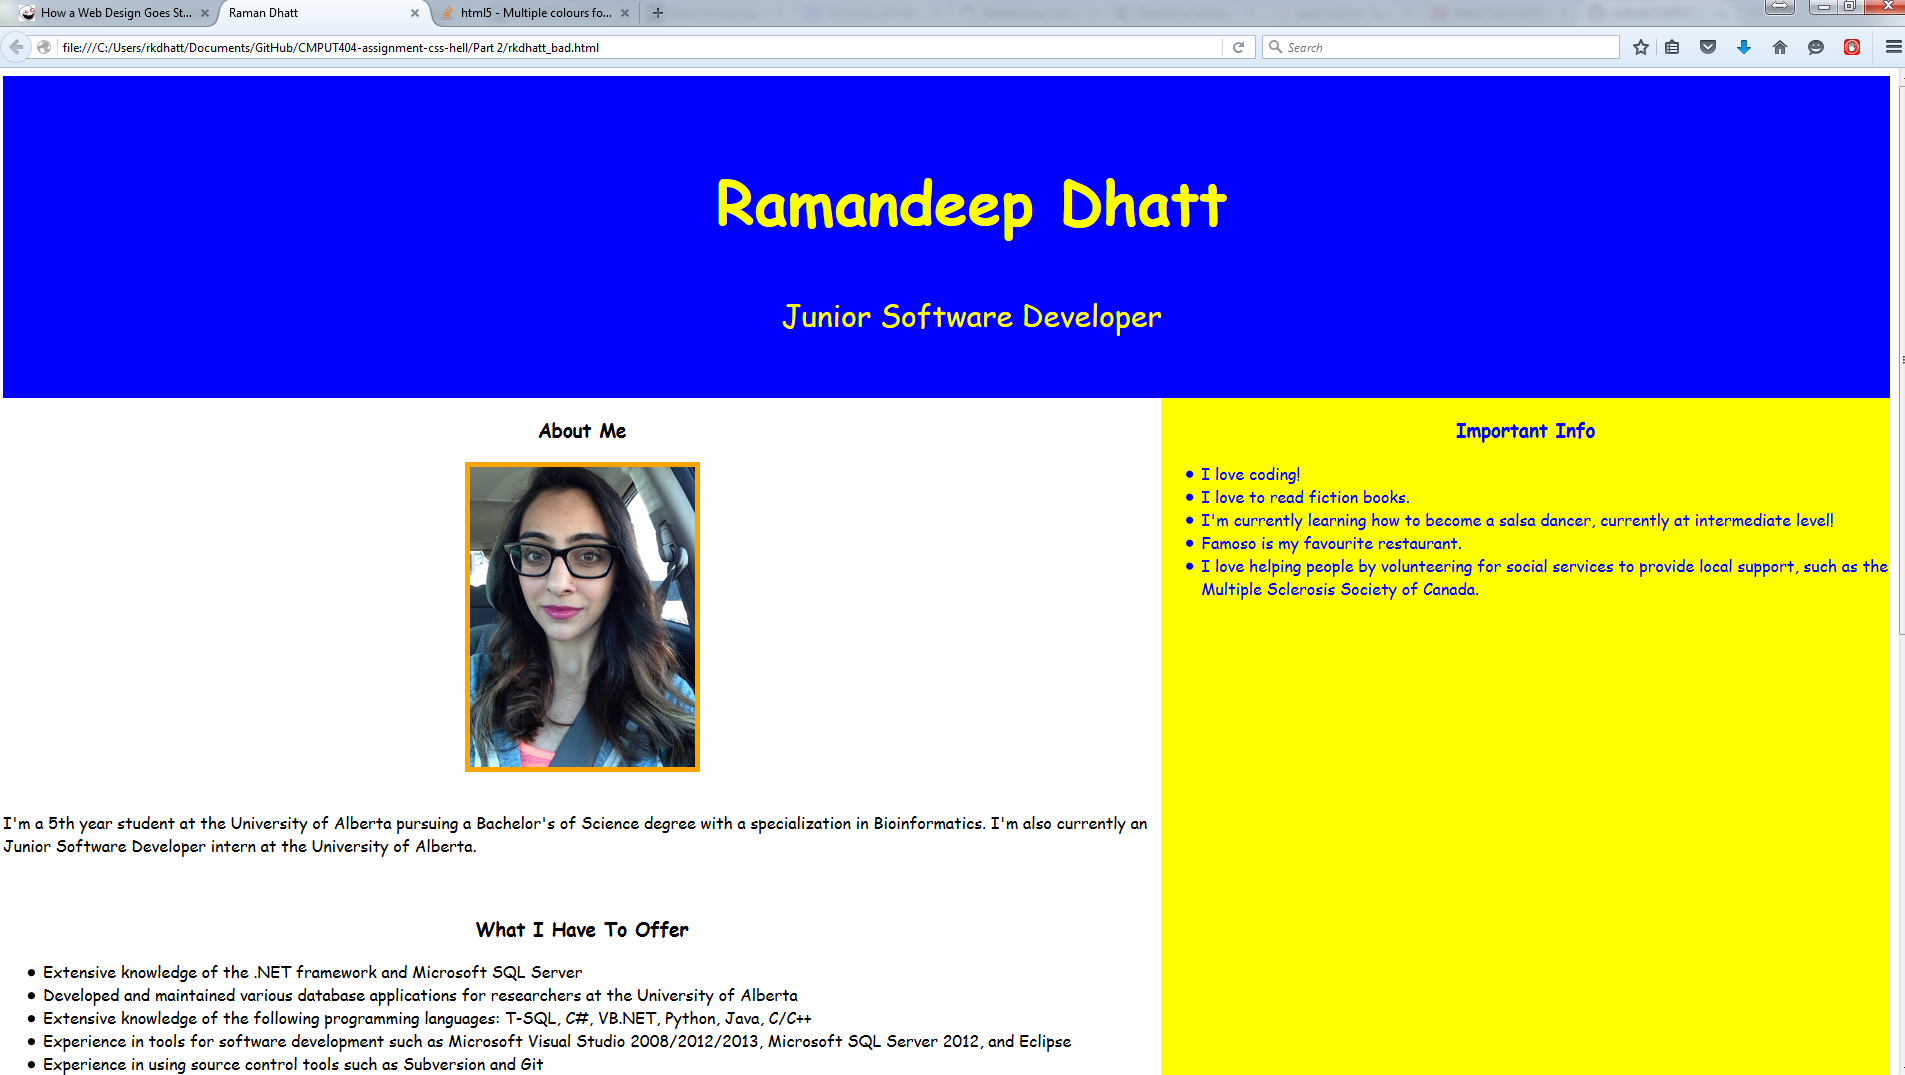
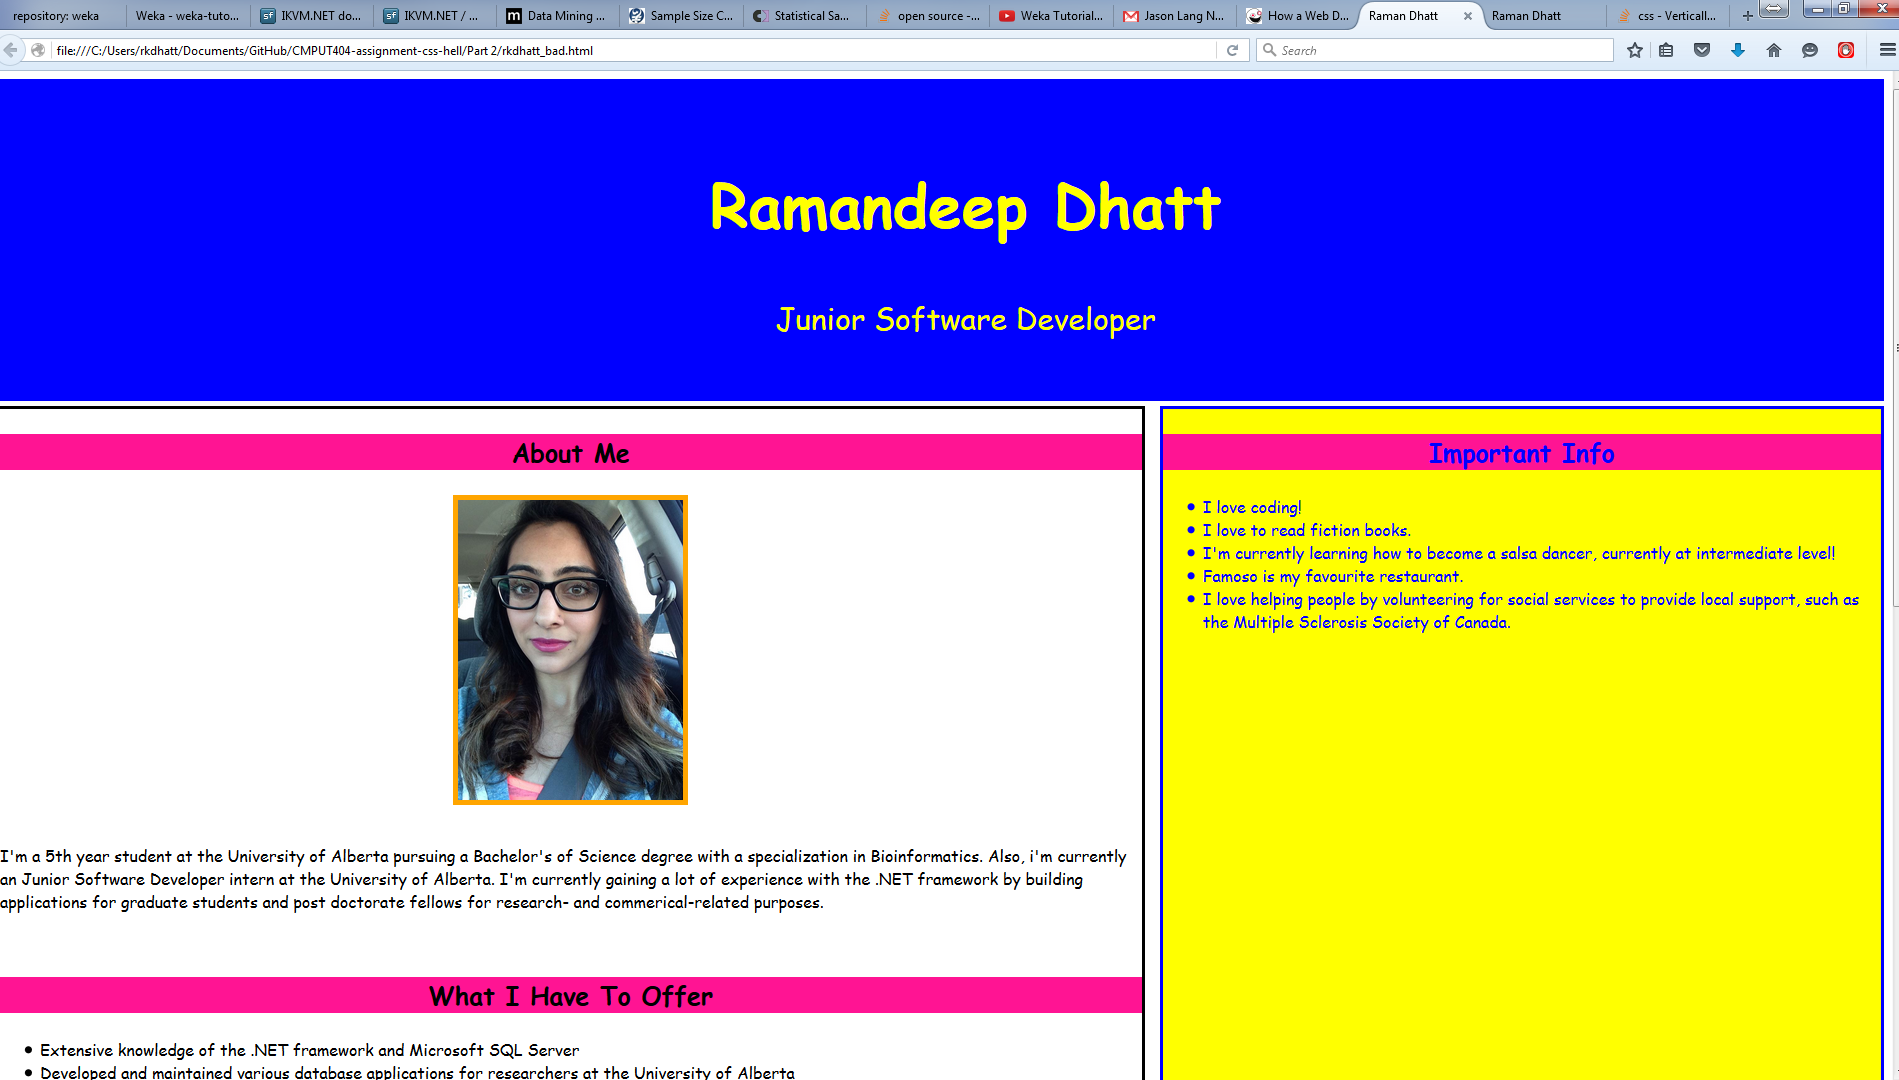
Made some final changes to bad html

diff --git a/Part 2/rkdhatt_bad.html b/Part 2/rkdhatt_bad.html
@@ -49,7 +49,7 @@ limitations under the License.
 				<p>
 					<br>
 					I'm a 5th year student at the University of Alberta pursuing a Bachelor's of Science degree with a specialization in Bioinformatics.
-					I'm also currently an Junior Software Developer intern at the University of Alberta.
+					Also, i'm currently an Junior Software Developer intern at the University of Alberta. I'm currently gaining a lot of experience with the .NET framework by building applications for graduate students and post doctorate fellows for research- and commerical-related purposes.
 				</p>
 				<br>
 				<h3 class="sub-title">What I Have To Offer</h3>

diff --git a/Part 2/rkdhatt_good.html b/Part 2/rkdhatt_good.html
@@ -49,7 +49,7 @@ limitations under the License.
 				<p>
 					<br>
 					I'm a 5th year student at the University of Alberta pursuing a Bachelor's of Science degree with a specialization in Bioinformatics.
-					I'm also currently an Junior Software Developer intern at the University of Alberta.
+					Also, i'm currently an Junior Software Developer intern at the University of Alberta. I'm currently gaining a lot of experience with the .NET framework by building applications for graduate students and post doctorate fellows for research- and commerical-related purposes.
 				</p>
 				<br>
 				<h3 class="sub-title">What I Have To Offer</h3>

diff --git a/Part 2/bad.css b/Part 2/bad.css
@@ -35,6 +35,8 @@ body
 .sub-title
 {
 	text-align: center;
+	background-color: #FF1493;
+	font-size: 25px;
 }
 
 .features 
@@ -48,6 +50,9 @@ body
 	width: 85%;
 	min-width: 650px;
 	color: black;
+	border-color: black;
+	border-style: solid;
+	margin-top: 5px;
 }
 
 #two 
@@ -61,6 +66,10 @@ body
 {
 	color: blue;
 	background-color: yellow;
+	margin-left: 15px;
+	margin-top: 5px;
+	border-style: solid;
+	border-color: blue;
 }
 
 .imagefit 

diff --git a/Part 2/good.css b/Part 2/good.css
@@ -36,6 +36,7 @@ body
 .sub-title
 {
 	text-align: center;
+	font-size: 25px;
 }
 
 .features 

diff --git a/Part 2/lettering.js b/Part 2/lettering.js
@@ -1,0 +1,3 @@
+$(document).ready(function() {
+    $(".rainbow").lettering();
+});
